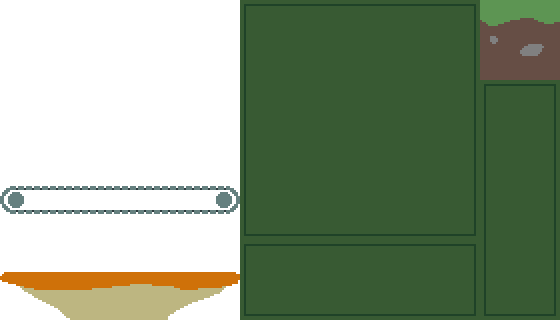
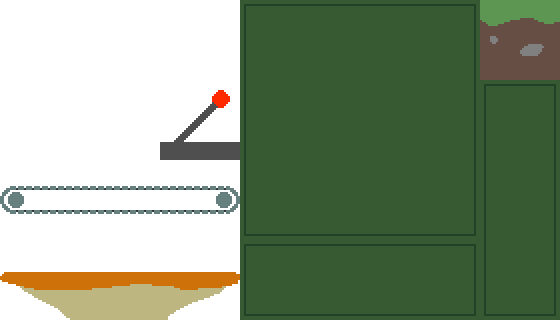
added assets for switch, added switch that switches game between past and present (makes conveyor belt disappear, makes mushroom appear, changes how collision works for that platform) which only can be interacted with while the player is in range and which gets an outline when the player is in said 

Changed region(s): [[0.2732, 0.2812, 0.4554, 0.5]]

diff --git a/scenes/prototypes/Core-Gameplay.js b/scenes/prototypes/Core-Gameplay.js
@@ -21,22 +21,34 @@ export default class GameplayPrototype extends Phaser.Scene {
         const prototypeTiles = prototypeMap.addTilesetImage("Prototype_Tiles", "Prototype_Tiles", 80, 80);
         this.layer1 = prototypeMap.createLayer("Tile Layer 1", prototypeTiles, 0, 0);
         this.layer1.setCollisionFromCollisionGroup();
-        this.debugGraphics = this.add.graphics();
-        this.drawTileCollisions(this.debugGraphics);
-        this.platform = this.physics.add.body(360, 311, 240, 48).setAllowGravity(false);
+        this.platform = this.physics.add.body(440, 386, 240, 28).setAllowGravity(false).setImmovable();
 
         //--------------------------------------
         // image physics stuff
         //---------------------------------------
-        this.add.image(400, 320, "Prototype_Tiles", 21);
-        this.add.image(480, 320, "Prototype_Tiles", 22);
-        this.add.image(560, 320, "Prototype_Tiles", 23);
 
-        //let conveyorBelt = this.add.image(400, 320, "Prototype_Tiles", 14);
-        //this.add.image(480, 320, "Prototype_Tiles", 15);
-        //this.add.image(560, 320, "Prototype_Tiles", 16);
+        // was there a better way to figure out how to add an outline to the lever?
+        // probably. Do I care? No. It is 12 AM. Did I try a better way? Yes. For much too long.
+        this.leverOutline = this.add.image(40, 202, "levers", "leverOutline").setAlpha(0);
+        this.lever = this.physics.add.staticImage(40, 200, "levers", "lever");
+
+        // idk why the hitbox is in a weird position either - 
+        // changing x or y has seemed to have little effect so I just left it alone
+        this.lever.body.setCircle(80, -80, -40);
+
+        // mushroom
+        const mush1 = this.add.image(480, 400, "Prototype_Tiles", 21).setAlpha(0);
+        const mush2 = this.add.image(560, 400, "Prototype_Tiles", 22).setAlpha(0);
+        const mush3 = this.add.image(640, 400, "Prototype_Tiles", 23).setAlpha(0);
+
+        // conveyor belt
+        const con1 = this.add.image(480, 400, "Prototype_Tiles", 14);
+        const con2 = this.add.image(560, 400, "Prototype_Tiles", 15);
+        const con3 = this.add.image(640, 400, "Prototype_Tiles", 16);
+
+        // var to keep track of which game state the player is in
+        this.past = false;
         
-        // tiles can collide now
         
         this.itemsHeld = 0;
         //this.add.rectangle(100, 100, 100, 100, 0x00ff00);
@@ -111,11 +123,56 @@ export default class GameplayPrototype extends Phaser.Scene {
                 
         //     }  
         // });
+
+        // if the player hits the top of the conveyor belt, most fast to the left,
+        // if the player hits the top of the mushroom, bounce
         this.physics.add.collider(this.player, this.platform, () => {
-            if (this.player.body.touching.down)
-        })
+            if (this.player.body.touching.down && this.platform.touching.up) {
+                if (this.past == true) {
+                    this.player.setVelocityY(this.player.body.velocity.y - 400);
+                    // doesn't work properly; read note in update for full context
+                }
+                else {
+                    this.player.setVelocityX(this.player.body.velocity.x - 200);
+                }
+            }
+        });
+
+        // if player clicks on lever, switch past to future or future to past;
+        // only works when player is near the switch
+        this.lever.on('pointerdown', () => {
+            if (this.past == true) {
+                mush1.setAlpha(0);
+                mush2.setAlpha(0);
+                mush3.setAlpha(0);
+
+                con1.setAlpha(1);
+                con2.setAlpha(1);
+                con3.setAlpha(1);
+
+                this.past = false;
+            }
+            else {
+                con1.setAlpha(0);
+                con2.setAlpha(0);
+                con3.setAlpha(0);
+
+                mush1.setAlpha(1);
+                mush2.setAlpha(1);
+                mush3.setAlpha(1);
+
+                this.platform.setSize(240, 28).reset(440, 391);
+
+                this.past = true;
+            }
+            //console.log("bean");
+        });
+        
+
 
         this.player.body.setMaxVelocity(500);
+        this.player.body.setMaxVelocityY(600); 
+        // ^ comment this out if you'd like, I'm just doing this for testing purposes
         this.player.body.setDragX(1000);
 
 
@@ -130,34 +187,7 @@ export default class GameplayPrototype extends Phaser.Scene {
 
     }
 
-    drawTileCollisions(graphics) {
-        graphics.clear();
-        graphics.lineStyle(3, 0xfc00fc, 1);
-
-        this.layer1.forEachTile(tile => {
-            const tileX = tile.getLeft();
-            const tileY = tile.getTop();
-            const collisionStuff = tile.getCollisionGroup();
-            
-
-            if (!collisionStuff || collisionStuff.objects.length === 0) {
-                return;
-            }
-            
-
-            const objects = collisionStuff.objects;
-
-            for (let i = 0; i < objects.length; ++i) {
-                const object = objects[i];
-                const objX = tileX + object.x;
-                const objY = tileY + object.y;
-
-                if (object.rectangle) {
-                    graphics.strokeRect(objX, objY, object.width, object.height);
-                }
-            }
-        })
-    }
+    
 
     update(){
 
@@ -185,7 +215,9 @@ export default class GameplayPrototype extends Phaser.Scene {
                 this.player.setVelocityX(this.player.body.velocity.x + 10);
             }
         } else {
-            this.player.setVelocityX(0);
+            if (!(this.player.body.touching.down && this.platform.touching.up && !this.past)) { // basically if not on conveyor belt
+                this.player.setVelocityX(0);
+            }
         }
         // if(this.cursors.left.isUp && this.isJumping == true){
         //     this.player.setVelocityX(0);
@@ -199,5 +231,31 @@ export default class GameplayPrototype extends Phaser.Scene {
             this.isJumping = true;
             this.player.setVelocityY(-400);
         }
+        // ^ hey, didn't want to change this cause idk if it was worked on such that
+        // merging would be a pain to deal with. In any case, this and my mushroom boucing stuff
+        // do not work together. It seems to be the case that whenever the player is jumping at the
+        // same time that the player is standing on the mushroom, the velocity for y only gets set to -400
+        // instead of the mushroom adding extra bounce. It's to the point that if you get the velocity of y
+        // low enough when on the mushroom, the player will go higher up while not pressing the jump button
+        // on the mushroom than when they do.
+        // basically, we need to make it so pressing the jump button while on the mushroom will make the player go higher
+        // than a regular jump, and right now pressing the jump button will only make the player do a regular jump.
+        // Ideally, the player would also bounce a bit on the mushroom, even when not actively jumping on it (which is why the
+        // mushroom jump stuff is written the way it is currently) 
+        // Also, the idea is that the player cannot complete whatever the goal is without using the past/future mechanic, which
+        // is why the top right platform is so high. The player is supposed to jump on the mushrooms to gain extra height in
+        // order to reach it, so the jumping not working on the mushroom is quite an issue.
+        // -Sydney
+
+        if (!this.physics.overlap(this.lever, this.player)) { // if the player is not in range of the lever
+            this.leverOutline.setAlpha(0); // lever has no outline
+            this.lever.disableInteractive(); // cannot click on lever
+        }
+        else {
+            this.leverOutline.setAlpha(1); // lever has outline
+            this.lever.setInteractive(); // can interact with lever
+        }
+
+        
     }
 }

diff --git a/scenes/prototypes/Intro-Cinematic.js b/scenes/prototypes/Intro-Cinematic.js
@@ -94,6 +94,7 @@ export default class IntroCinematic extends Phaser.Scene {
         this.load.image('title', 'assets/finalproj-main-menu-prototype-titlesign.png');
         this.load.tilemapTiledJSON("prototypeTilemap", "assets/prototypeTilemap.json");
         this.load.spritesheet("Prototype_Tiles", "assets/Prototype_Tiles.png", {frameWidth: 80, frameHeight: 80});
+        this.load.atlas("levers", "assets/levers.png", "assets/textureAtlas.json");
         this.load.image('player', 'assets/PlaceholderPlayer.png');
         this.load.image('jumpButton', 'assets/LargerArrowButton.png');
         this.load.image('leftButton', 'assets/LargerArrowButton.png');

diff --git a/main.js b/main.js
@@ -23,6 +23,7 @@ let config = {
         default: 'arcade',
         arcade: {
                 gravity: { y: 500 },
+                debug: true
         }
     },
     pixelArt: true,
